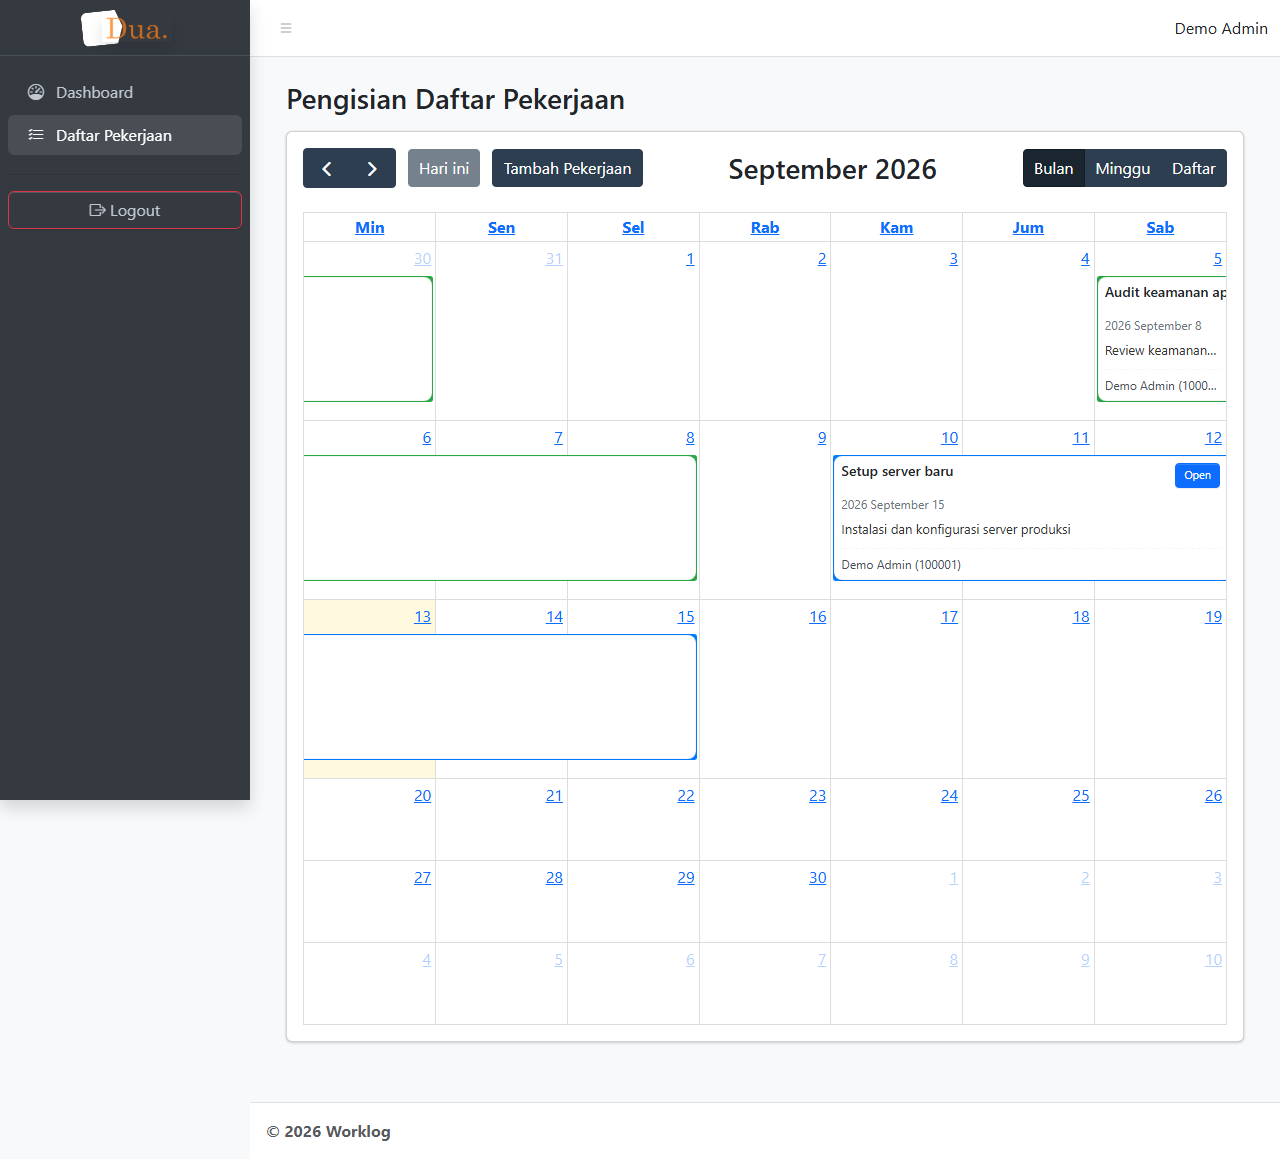
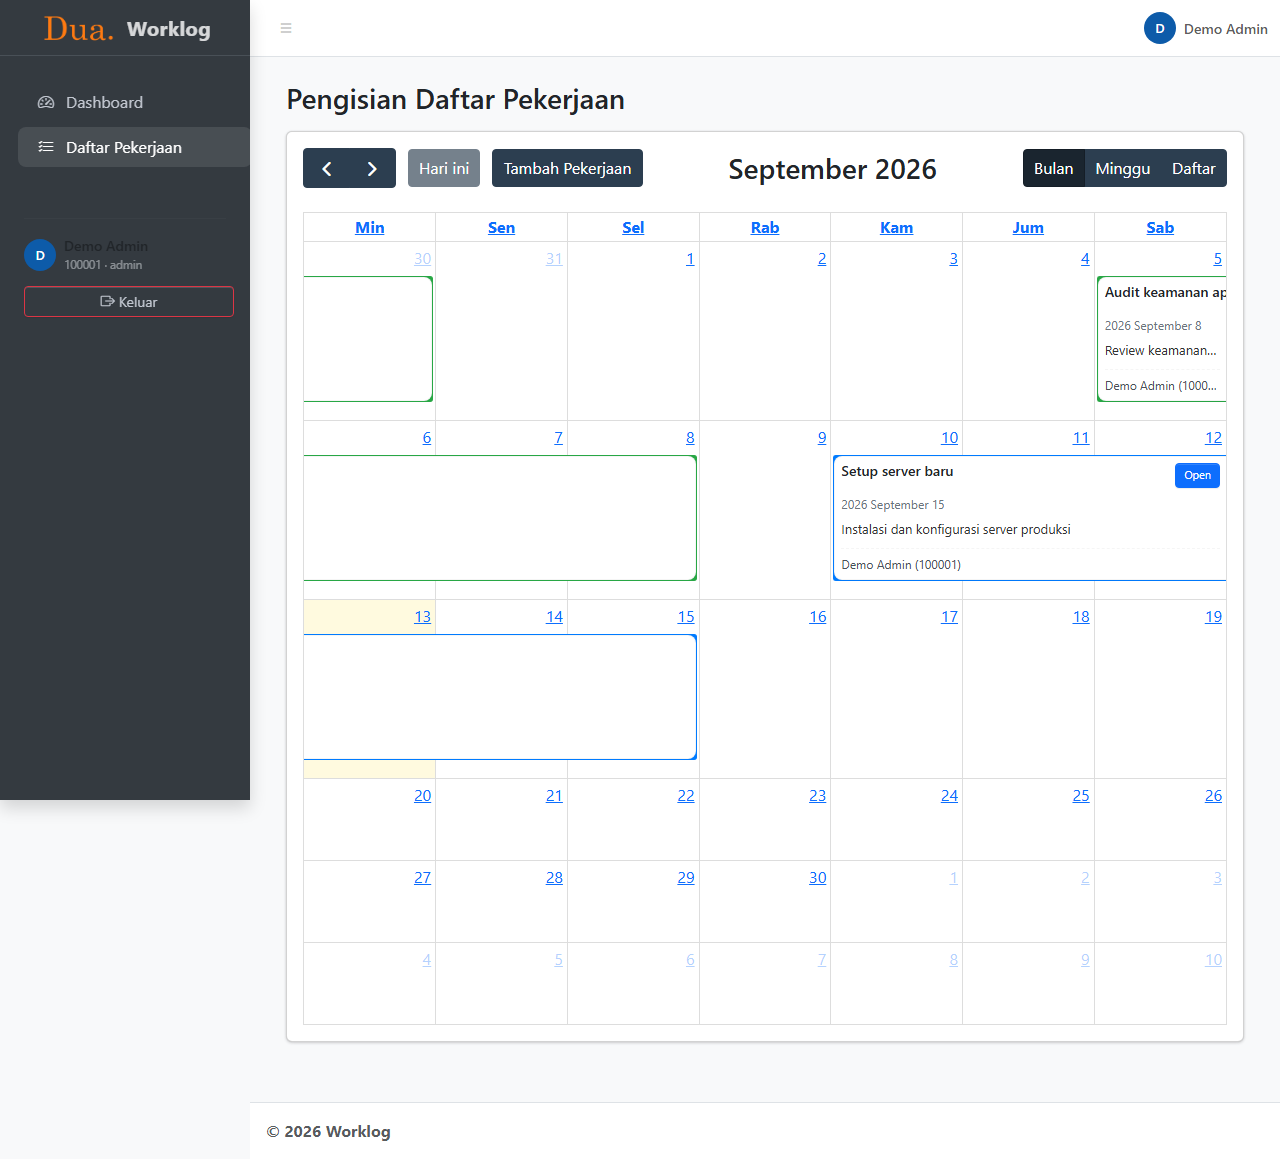
ui+security: redesign sidebar dengan profil pengguna, session cookie aman, bersihkan CSS mati

Changed region(s): [[0.0, 0.0, 0.1562, 0.1864], [0.0, 0.1864, 0.125, 0.2796], [0.875, 0.0, 1.0, 0.0311]]

diff --git a/assets/css/style.css b/assets/css/style.css
@@ -1,90 +1,108 @@
-/* Project custom styles */
+/* =========================================================
+ * Style kustom Worklog
+ * Hanya berisi penyesuaian dari tema AdminLTE: sidebar, header,
+ * kalender FullCalendar, dan chart dashboard.
+ * ========================================================= */
 
-/* Global mobile spacing */
+/* ---------- Global mobile spacing ---------- */
 @media (max-width: 575.98px) {
-  .app-content{padding:1rem !important}
-  .container-fluid{padding-left:0.75rem;padding-right:0.75rem}
+  .app-content { padding: 1rem !important; }
+  .container-fluid { padding-left: 0.75rem; padding-right: 0.75rem; }
 }
 
-/* Brand flag behind logo in sidebar */
-.brand-link{position:relative;display:inline-flex;align-items:center}
-.brand-flag{
-  position:absolute;
-  left:4px;
-  top:50%;
-  transform:translateY(-50%) rotate(-6deg);
-  width:44px;
-  height:34px;
-  /* two-color flag with triangular point */
-  background: linear-gradient(90deg, #ffff 50%, #ffff 50%);
-  clip-path: polygon(0 0, 78% 0, 92% 50%, 78% 100%, 0 100%);
-  border-radius:6px;
-  box-shadow:0 2px 6px rgba(0,0,0,0.12);
-  z-index:1;
+/* ---------- Sidebar ---------- */
+/* Brand: logo + teks sejajar, tanpa dekorasi berlebihan */
+.sidebar-brand .brand-link {
+  display: inline-flex;
+  align-items: center;
 }
-.brand-link .brand-image{position:relative;z-index:2;width:28px;height:28px;object-fit:contain;margin-left:8px}
-
-@media (max-width:576px){
-  .brand-flag{width:32px;height:26px;left:4px}
-  .brand-link .brand-image{width:22px;height:22px;margin-left:6px}
+.sidebar-brand .brand-image {
+  width: 32px;
+  height: 32px;
+  object-fit: contain;
+  border-radius: 8px;
+}
+.sidebar-brand .brand-text {
+  font-weight: 700;
+  letter-spacing: 0.02em;
 }
 
-/* Mobile-friendly tweaks for daftar_pekerjaan modal and calendar */
+/* Item menu: sedikit radius dan jarak agar hover/active lebih jelas */
+.sidebar-menu .nav-link {
+  border-radius: 8px;
+  margin: 2px 10px;
+  transition: background-color 0.15s ease;
+}
+.sidebar-menu .nav-link.active {
+  background-color: rgba(255, 255, 255, 0.08);
+}
+
+/* Blok profil pengguna di bawah menu */
+.avatar-initials {
+  display: inline-flex;
+  align-items: center;
+  justify-content: center;
+  width: 32px;
+  height: 32px;
+  flex: 0 0 32px;
+  border-radius: 50%;
+  background: #0d5ba9; /* biru korporat dari tema adminlte, tanpa gradasi */
+  color: #fff;
+  font-size: 0.8rem;
+  font-weight: 600;
+}
+.min-width-0 { min-width: 0; }
+.smaller { font-size: 0.72rem; }
+.sidebar-user .sidebar-divider {
+  border-color: rgba(255, 255, 255, 0.1);
+  margin: 0.75rem 1rem;
+}
+.sidebar-user .btn-logout {
+  width: calc(100% - 1.5rem) !important; /* meniadakan mx-3 pada tombol */
+}
+
+/* ---------- Kalender (FullCalendar) ---------- */
+#calendar .fc .fc-button.fc-button-primary { border-radius: 6px; }
+
+/* Tombol "Tambah Pekerjaan" ditempatkan di bawah grup prev/today/next */
+#calendar .fc .fc-toolbar-chunk:first-child {
+  display: flex;
+  flex-direction: column;
+  align-items: flex-start;
+}
+#calendar .fc .fc-toolbar-chunk:first-child .fc-button-group { margin-bottom: 6px; }
+
+/* Mobile: toolbar ditumpuk vertikal, tombol full-width, sasaran sentuh lebih besar */
 @media (max-width: 575.98px) {
   .modal .modal-content { height: 100vh; border-radius: 0; }
   .modal .modal-body { padding: 1rem; overflow: auto; }
   .modal .modal-footer { padding: 0.75rem; }
   .form-control, .form-select, textarea { font-size: 1rem; }
   .btn { padding: 0.6rem 0.9rem; }
+
   #calendar { padding: 0 6px; }
   #calendar .fc .fc-daygrid-event { font-size: 0.9rem; padding: 0.25rem; }
-  #calendar .fc .fc-toolbar-chunk { display: block; text-align: center; }
-  #calendar .fc .fc-toolbar-chunk .fc-button { margin: 4px 2px; }
+  #calendar .fc .fc-toolbar { flex-direction: column; align-items: stretch; gap: 0.5rem; }
+  #calendar .fc .fc-toolbar-title { font-size: 1.05rem; }
+
+  #calendar .fc .fc-toolbar-chunk { width: 100%; text-align: center; }
+  #calendar .fc .fc-toolbar-chunk:last-child .fc-button-group { width: 100%; display: flex; }
+  #calendar .fc .fc-toolbar-chunk:last-child .fc-button-group .fc-button { flex: 1; }
+  #calendar .fc .fc-toolbar-chunk:first-child { align-items: stretch; }
+  #calendar .fc .fc-toolbar-chunk:first-child .fc-addPekerjaan-button { width: 100%; }
+  #calendar .fc .fc-button { padding: 0.55rem 0.75rem; }
+
+  /* list view: sembunyikan kolom waktu yang tidak terpakai */
+  #calendar .fc .fc-list-event-time { display: none; }
+  #calendar .fc .fc-list-table td.fc-list-event-time { padding: 0; width: 0; }
 }
 
-/* Additional mobile tweaks for FullCalendar */
+/* ---------- Chart dashboard (Chart.js) ---------- */
+.dashboard-chart {
+  display: block;
+  width: 100% !important;
+  max-height: 320px;
+}
 @media (max-width: 575.98px) {
-  /* tighten toolbar and center title */
-  .mobile-calendar .fc .fc-toolbar-title { font-size: 1rem; }
-  .mobile-calendar .fc .fc-toolbar-chunk { display:block; text-align:center; }
-  .mobile-calendar .fc .fc-daygrid-event, .mobile-calendar .fc .fc-list-item { white-space: normal; }
-  /* make list items more compact */
-  .mobile-calendar .fc .fc-list-item > .fc-list-item-main { padding: 0.35rem 0.5rem; }
-  .mobile-calendar .fc .fc-daygrid-event { padding: 0.25rem 0.4rem; }
+  .dashboard-chart { max-height: none; }
 }
-
-/* FullCalendar toolbar layout (scoped to this page's calendar) */
-#calendar .fc .fc-button.fc-button-primary{border-radius:6px}
-
-/* Place the custom add button under the prev/today/next group */
-#calendar .fc .fc-toolbar-chunk:first-child{display:flex;flex-direction:column;align-items:flex-start}
-#calendar .fc .fc-toolbar-chunk:first-child .fc-button-group{margin-bottom:6px}
-
-/* Mobile: make toolbar easier to tap and hide list time column */
-@media (max-width: 575.98px) {
-  #calendar .fc .fc-toolbar{flex-direction:column;align-items:stretch;gap:0.5rem}
-  #calendar .fc .fc-toolbar-chunk{width:100%;text-align:center}
-  #calendar .fc .fc-toolbar-chunk:first-child{align-items:stretch}
-  #calendar .fc .fc-toolbar-chunk:first-child .fc-button-group{width:100%;display:flex}
-  #calendar .fc .fc-toolbar-chunk:first-child .fc-button-group .fc-button{flex:1}
-  #calendar .fc .fc-toolbar-chunk:first-child .fc-addPekerjaan-button{width:100%}
-  #calendar .fc .fc-toolbar-title{font-size:1.05rem}
-
-  /* Right-side view buttons become full-width segmented controls */
-  #calendar .fc .fc-toolbar-chunk:last-child .fc-button-group{width:100%;display:flex}
-  #calendar .fc .fc-toolbar-chunk:last-child .fc-button-group .fc-button{flex:1}
-
-  /* Better touch targets */
-  #calendar .fc .fc-button{padding:0.55rem 0.75rem}
-
-  /* list view: hide event time column completely */
-  #calendar .fc .fc-list-event-time{display:none}
-  #calendar .fc .fc-list-table td.fc-list-event-time{padding:0;width:0}
-}
-
-/* Dashboard charts (Chart.js) */
-.dashboard-chart{display:block;width:100% !important;max-height:320px}
-@media (max-width: 575.98px) {
-  .dashboard-chart{max-height:none}
-}
-

diff --git a/includes/sidebar.php b/includes/sidebar.php
@@ -1,53 +1,64 @@
 <?php
+/* ---------------------------------------------------------------
+ * Sidebar navigasi Worklog (AdminLTE dark)
+ * Dipasang setelah header.php. Pembatas halaman `require_login()`
+ * sudah dijalankan di header, sehingga session pasti tersedia di sini.
+ * ------------------------------------------------------------- */
 require_once __DIR__ . '/../functions/helpers.php';
 require_once __DIR__ . '/../config/database.php';
-// Ensure user is logged in for non-public pages
 require_login();
 ensure_session_started();
+
+/* Halaman aktif menentukan item menu yang mendapat state "active" */
 $currentPage = basename($_SERVER['PHP_SELF']);
+$menuItems = [
+    ['file' => 'index.php', 'label' => 'Dashboard', 'icon' => 'bi-speedometer2'],
+    ['file' => 'daftar_pekerjaan.php', 'label' => 'Daftar Pekerjaan', 'icon' => 'bi-list-check'],
+];
+
+/* Inisial pengguna untuk avatar huruf (gravatar tidak tersedia, cukup initial) */
+$userNama  = $_SESSION['nama_emp'] ?? $_SESSION['npp'] ?? '-';
+$userInisial = strtoupper(mb_substr($userNama, 0, 1));
+$userRole  = $_SESSION['role_name'] ?? null;
 ?>
 <aside class="app-sidebar bg-body-secondary shadow" data-bs-theme="dark">
   <div class="sidebar-brand">
-    <a href="<?php echo site_url('index.php'); ?>" class="brand-link ps-3">
-      <span class="brand-flag" aria-hidden="true"></span>
-      <img src="<?php echo asset_url('img/logo.png'); ?>" alt="Logo" class="brand-image opacity-75 shadow" />
-      <!-- <span class="brand-text d-none d-lg-inline ms-2">Worklog</span> -->
+    <a href="<?php echo site_url('index.php'); ?>" class="brand-link justify-content-center">
+      <img src="<?php echo asset_url('img/logo.png'); ?>" alt="Logo Worklog" class="brand-image" />
+      <span class="brand-text ms-2">Worklog</span>
     </a>
   </div>
 
   <div class="sidebar-wrapper">
-    <nav class="mt-2">
-      <ul class="nav sidebar-menu flex-column"
-          data-lte-toggle="treeview"
-          role="navigation"
-          aria-label="Main navigation"
-          data-accordion="false"
-          id="navigation">
-        <li class="nav-item">
-          <a href="<?php echo site_url('index.php'); ?>" class="nav-link <?php echo $currentPage === 'index.php' ? 'active' : ''; ?>">
-            <i class="nav-icon bi bi-speedometer"></i>
-            <p>Dashboard</p>
-          </a>
-        </li>
-
-        <li class="nav-item">
-          <a href="<?php echo site_url('daftar_pekerjaan.php'); ?>" class="nav-link <?php echo $currentPage === 'daftar_pekerjaan.php' ? 'active' : ''; ?>">
-            <i class="nav-icon bi bi-list-check"></i>
-            <p>Daftar Pekerjaan</p>
-          </a>
-        </li>
-
-        
-
+    <nav class="mt-3" aria-label="Navigasi utama">
+      <ul class="nav sidebar-menu flex-column mb-auto" id="navigation">
+        <?php foreach ($menuItems as $item): ?>
+          <li class="nav-item">
+            <a href="<?php echo site_url($item['file']); ?>"
+               class="nav-link<?php echo $currentPage === $item['file'] ? ' active' : ''; ?>"
+               <?php echo $currentPage === $item['file'] ? 'aria-current="page"' : ''; ?>>
+              <i class="nav-icon bi <?php echo $item['icon']; ?>"></i>
+              <p><?php echo e($item['label']); ?></p>
+            </a>
+          </li>
+        <?php endforeach; ?>
       </ul>
 
-      <div>
+      <div class="sidebar-user mt-5">
         <hr class="sidebar-divider">
-        <a href="<?php echo site_url('logout.php'); ?>" class="btn btn-outline-danger w-100 mb-3">
-          <i class="bi bi-box-arrow-right"></i> Logout
+        <div class="d-flex align-items-center gap-2 px-3 py-1">
+          <span class="avatar-initials" aria-hidden="true"><?php echo e($userInisial); ?></span>
+          <div class="min-width-0">
+            <div class="small fw-semibold text-truncate"><?php echo e($userNama); ?></div>
+            <div class="smaller text-body-tertiary">
+              <?php echo e($_SESSION['npp'] ?? ''); ?><?php echo $userRole ? ' &middot; ' . e($userRole) : ''; ?>
+            </div>
+          </div>
+        </div>
+        <a href="<?php echo site_url('logout.php'); ?>" class="btn btn-outline-danger btn-sm w-100 mx-3 mt-2 btn-logout">
+          <i class="bi bi-box-arrow-right"></i> Keluar
         </a>
       </div>
-
     </nav>
   </div>
 </aside>

diff --git a/login.php b/login.php
@@ -15,14 +15,18 @@ require_once __DIR__ . '/config/database.php';
 
       if (empty($errors)) {
         if (isset($conn)) {
-          $stmt = $conn->prepare("SELECT npp, password, nama_emp, nama_bagian, role_id FROM employee WHERE npp = ? LIMIT 1");
-          if ($stmt) {
-            $stmt->bind_param('s', $npp);
-            $stmt->execute();
-            $res = $stmt->get_result();
-            $user = $res->fetch_assoc() ?? null;
-            if ($user && ( (function_exists('password_verify') && password_verify($password, $user['password'])) || $user['password'] === $password )) {
-              set_user_npp($user['npp'], $user['nama_emp'], $user['nama_bagian'], $user['role_id']);
+            $stmt = $conn->prepare("SELECT e.npp, e.password, e.nama_emp, e.nama_bagian, e.role_id, r.name AS role_name
+                                    FROM employee e LEFT JOIN roles r ON e.role_id = r.id
+                                    WHERE e.npp = ? LIMIT 1");
+            if ($stmt) {
+              $stmt->bind_param('s', $npp);
+              $stmt->execute();
+              $res = $stmt->get_result();
+              $user = $res->fetch_assoc() ?? null;
+              if ($user && ( (function_exists('password_verify') && password_verify($password, $user['password'])) || $user['password'] === $password )) {
+                set_user_npp($user['npp'], $user['nama_emp'], $user['nama_bagian'], $user['role_id']);
+                // Simpan nama role di session agar sidebar/dashboard tidak perlu query ulang
+                $_SESSION['role_name'] = $user['role_name'] ?? null;
               // enqueue a SweetAlert success message for the next page
               if (function_exists('flash_swal')) {
                 flash_swal('success', 'Login berhasil', 'Selamat datang, ' . $user['nama_emp']);

diff --git a/includes/header.php b/includes/header.php
@@ -11,7 +11,6 @@ require_login();
   <meta charset="utf-8">
   <meta name="viewport" content="width=device-width,initial-scale=1">
   <title>Worklog</title>
-
   <link rel="stylesheet" href="<?php echo asset_url('css/adminlte.css'); ?>">
   <link rel="stylesheet" href="https://cdn.jsdelivr.net/npm/bootstrap-icons@1.13.1/font/bootstrap-icons.min.css"
     crossorigin="anonymous">
@@ -26,13 +25,16 @@ require_login();
       <div class="container-fluid">
         <ul class="navbar-nav">
           <li class="nav-item">
-            <a class="nav-link" data-lte-toggle="sidebar" href="#" role="button"><i class="bi bi-list"></i></a>
+            <a class="nav-link" data-lte-toggle="sidebar" href="#" role="button" aria-label="Buka sidebar"><i class="bi bi-list"></i></a>
           </li>
-          <!-- <li class="nav-item d-none d-md-block"><a href="<?php echo site_url('index.php'); ?>" class="nav-link">Home</a></li>
-          <li class="nav-item d-none d-md-block"><a href="<?php echo site_url('contact.php'); ?>" class="nav-link">Contact</a></li> -->
         </ul>
         <ul class="navbar-nav ms-auto">
-          <?php echo e($_SESSION['nama_emp'] ?? $_SESSION['npp'] ?? ''); ?>
+          <li class="nav-item d-none d-sm-block">
+            <span class="nav-link pe-0 py-1 d-flex align-items-center gap-2">
+              <span class="avatar-initials" aria-hidden="true"><?php echo e(strtoupper(mb_substr($_SESSION['nama_emp'] ?? 'U', 0, 1))); ?></span>
+              <span class="small fw-semibold"><?php echo e($_SESSION['nama_emp'] ?? $_SESSION['npp'] ?? ''); ?></span>
+            </span>
+          </li>
         </ul>
       </div>
     </nav>

diff --git a/functions/helpers.php b/functions/helpers.php
@@ -40,6 +40,18 @@ function require_app($path) {
 // Session helpers
 function ensure_session_started() {
     if (session_status() === PHP_SESSION_NONE) {
+        // Cookie session aman: hanya bisa diakses via HTTP (bukan JS), same-site Lax
+        // mencegah pembacaan cookie lewat XSS dan pengiriman silang antar situs.
+        // Flag `secure` diaktifkan otomatis ketika aplikasi diakses via HTTPS.
+        $https = (!empty($_SERVER['HTTPS']) && $_SERVER['HTTPS'] !== 'off')
+            || ($_SERVER['SERVER_PORT'] ?? 0) == 443;
+        session_set_cookie_params([
+            'lifetime' => 0,
+            'path' => '/',
+            'secure' => $https,
+            'httponly' => true,
+            'samesite' => 'Lax',
+        ]);
         session_start();
     }
 }
@@ -56,7 +68,7 @@ function set_user_npp($npp, $nama_emp = null, $nama_bagian = null, $role_id = nu
 
 function clear_user_session() {
     ensure_session_started();
-    unset($_SESSION['npp'], $_SESSION['nama_emp'], $_SESSION['nama_bagian'], $_SESSION['role_id']);
+    unset($_SESSION['npp'], $_SESSION['nama_emp'], $_SESSION['nama_bagian'], $_SESSION['role_id'], $_SESSION['role_name']);
     if (function_exists('session_regenerate_id')) session_regenerate_id(true);
 }
 
